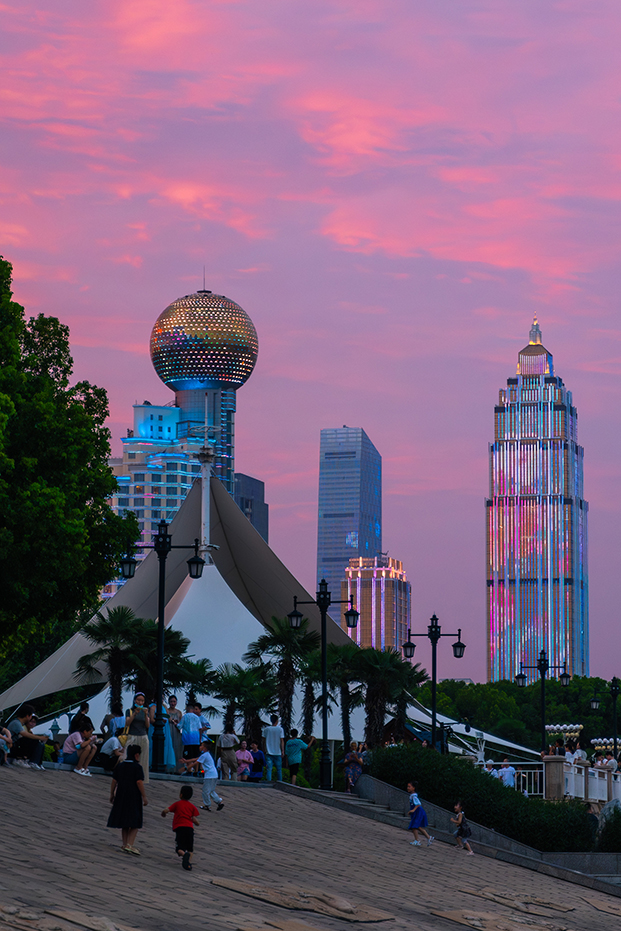
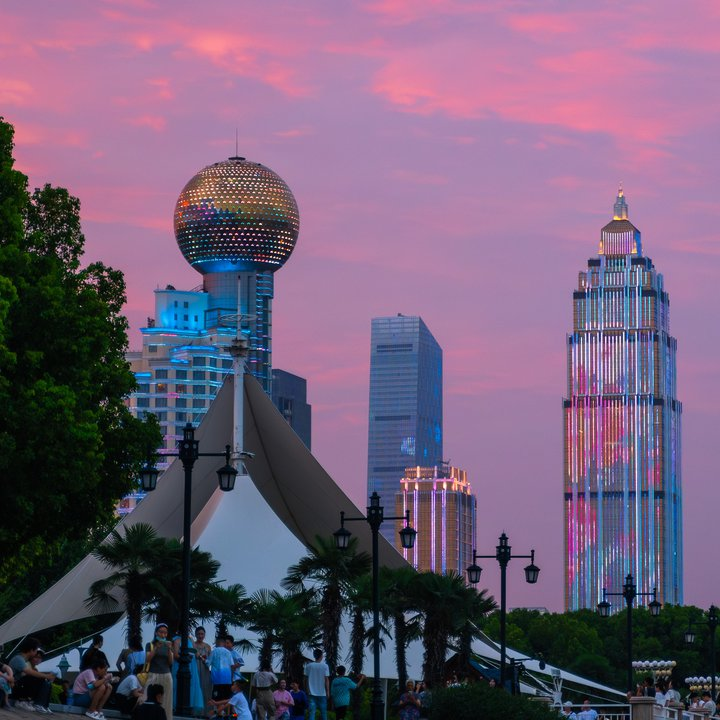
Increase thumbnail resolution to 720x720
- Update generate_thumbnails.py to use 720p resolution
- Add --force flag to regenerate existing thumbnails
- Regenerate all thumbnails at higher resolution

diff --git a/generate_thumbnails.py b/generate_thumbnails.py
@@ -6,6 +6,7 @@ that don't have corresponding thumbnails in assets/gallery-thumb/
 """
 
 import os
+import sys
 from pathlib import Path
 from PIL import Image, ImageFile
 
@@ -15,7 +16,7 @@ ImageFile.LOAD_TRUNCATED_IMAGES = True
 # Configuration
 GALLERY_DIR = Path(__file__).parent / "assets" / "gallery"
 THUMB_DIR = Path(__file__).parent / "assets" / "gallery-thumb"
-THUMB_SIZE = (400, 400)  # Recommended thumbnail size
+THUMB_SIZE = (720, 720)  # Thumbnail size (720p)
 SUPPORTED_FORMATS = {'.jpg', '.jpeg', '.png', '.gif', '.webp'}
 OUTPUT_FORMAT = 'JPEG'  # Output format for thumbnails
 OUTPUT_QUALITY = 85  # JPEG quality (1-100)
@@ -64,6 +65,9 @@ def create_thumbnail(source_path, dest_path):
 
 
 def main():
+    # Check for --force flag
+    force_regenerate = '--force' in sys.argv or '-f' in sys.argv
+
     # Ensure directories exist
     if not GALLERY_DIR.exists():
         print(f"Gallery directory not found: {GALLERY_DIR}")
@@ -82,6 +86,8 @@ def main():
         return
 
     print(f"Found {len(gallery_images)} images in gallery")
+    if force_regenerate:
+        print("Force mode: regenerating all thumbnails")
     print("-" * 50)
 
     generated = 0
@@ -92,7 +98,7 @@ def main():
         base_name = get_base_name(img_path.name)
         existing_thumb = find_existing_thumbnail(base_name)
 
-        if existing_thumb:
+        if existing_thumb and not force_regenerate:
             print(f"[SKIP] {img_path.name} - thumbnail exists")
             skipped += 1
         else:
